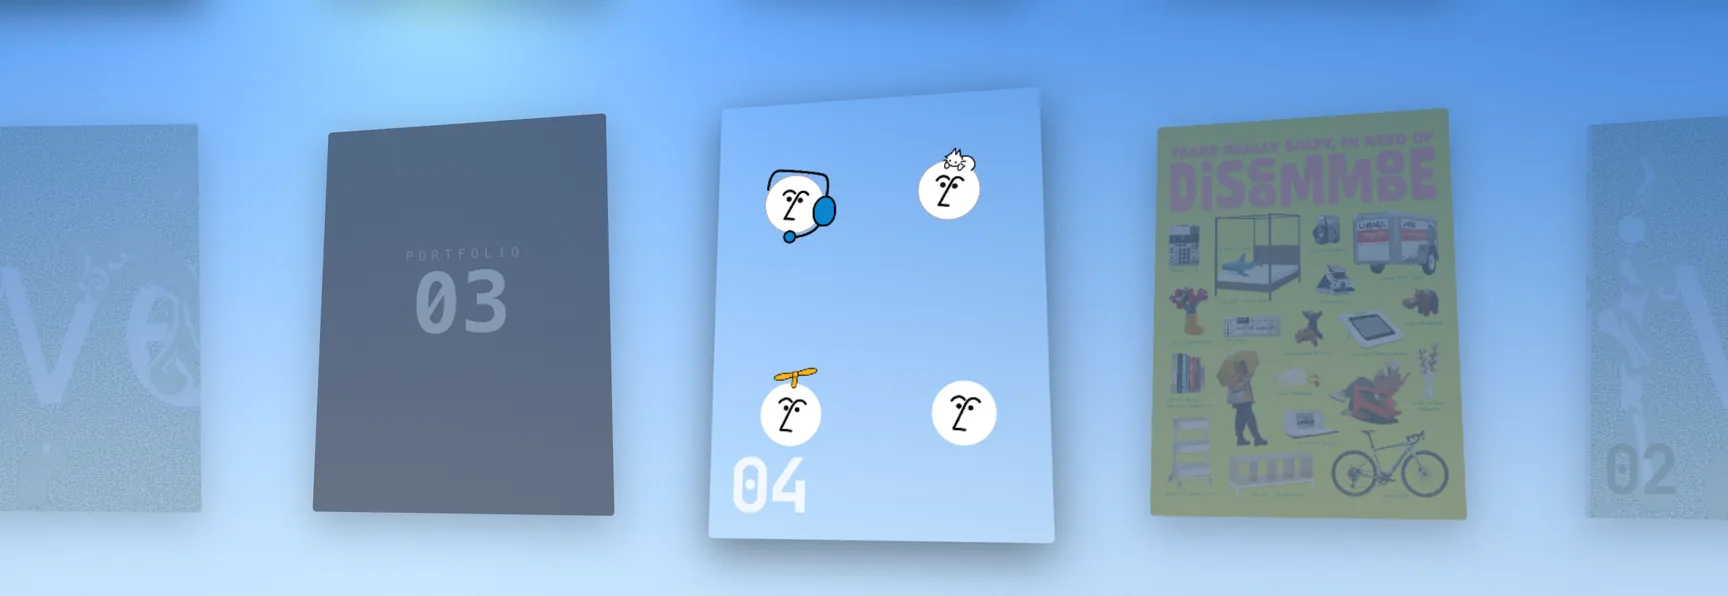
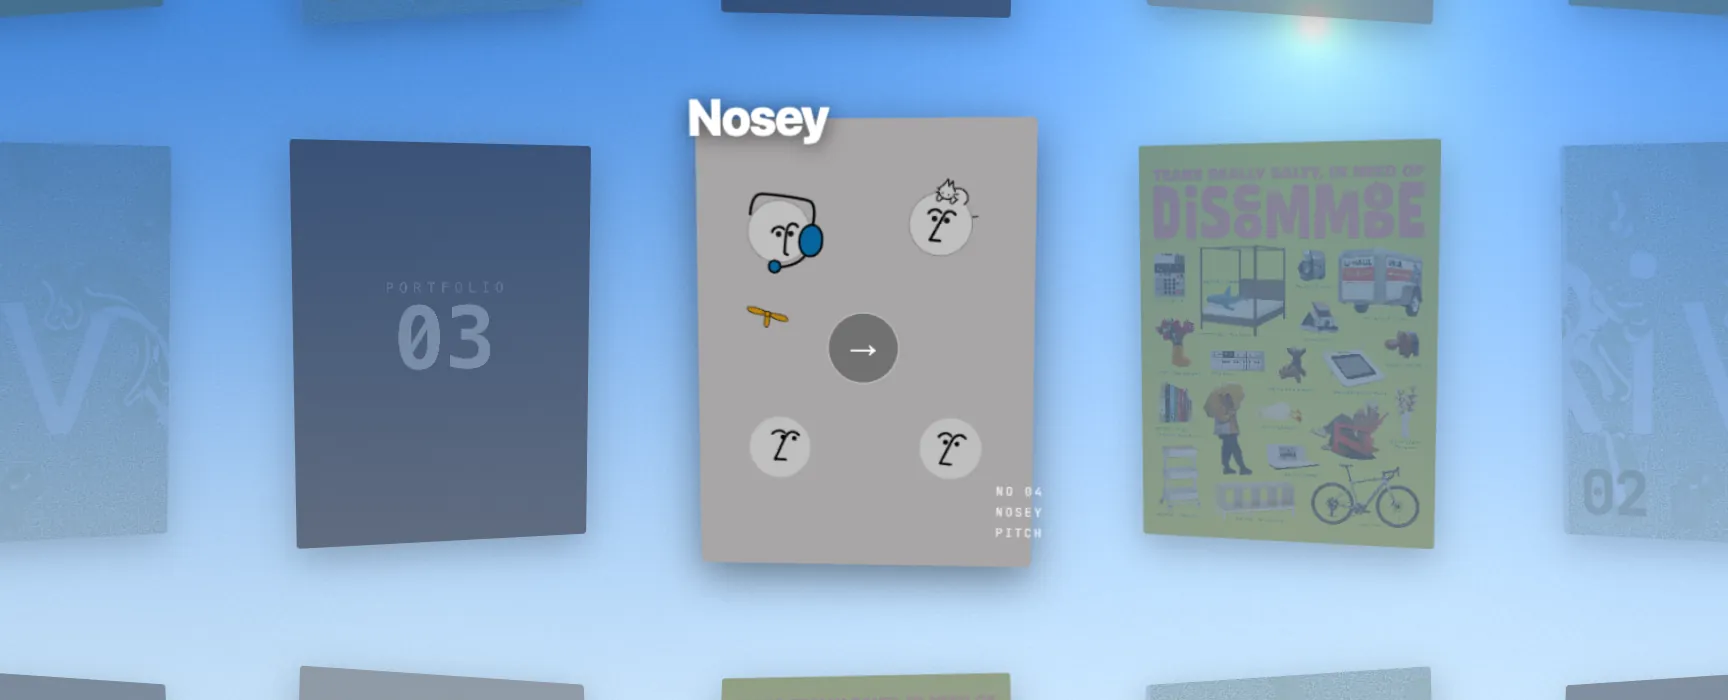
Card 04: the number and the name, nothing else on the cover
Card 04 (Nosey) is labelled as cards 01-03 are: the number bottom-left
and its name as the grid overlay's headline. Nothing else is set over
the cover.

- The description's rendering path is gone: the overlay's second line
  (`is-described`, `.card-overlay__desc`) and the detail hero's name +
  line (`.detail__panel-meta/-name/-desc`) with its scrim, and PR #31's
  soft text shadow on bare panels that stood in for the scrim.
- `description` is deleted from the manifest and `PosterItem`: the
  project view never read it. `name` stays, for the overlay's headline.
- verify:cover's hide rules drop the removed selector.
- The stills (`npm run covers -- --only nosey`) come out byte-identical:
  they are the cover alone. docs/covers/nosey-grid-row.webp and
  nosey-hero.webp are retaken.

verify:cover all passed (3 skipped: sky-through checks on the solid
cover); verify:detail all passed (card 04 as the hero 0.133-0.387%).
npm test (337), tsc -b, lint, build.

diff --git a/src/components/DetailView.css b/src/components/DetailView.css
@@ -122,17 +122,6 @@
   box-shadow: 0 24px 70px rgba(0, 0, 0, 0);
 }
 
-/* …and no scrim under its name either (card 04 has one; card 02 has none): over
-   a transparent cover the scrim is a dark band across the sky, the veil the
-   rules above exist to keep off. The type carries its own soft shadow instead,
-   enough to hold white on a NOON sky. */
-.detail__panel--bare .detail__panel-meta {
-  background: none;
-}
-.detail__panel--bare :is(.detail__panel-name, .detail__panel-desc, .detail__panel-num) {
-  text-shadow: 0 1px 14px rgba(10, 12, 16, 0.4);
-}
-
 /* A readable issue's centre panel is the doorway into the reader. */
 .detail__panel--readable {
   cursor: pointer;
@@ -156,56 +145,6 @@
   font-size: 44px;
   line-height: 1;
   color: rgba(255, 255, 255, 0.85);
-}
-
-/* The project's name and its one line, stacked above the number and sharing its
-   left edge. At the panel's foot rather than over the middle of it: the face is
-   a picture of the project, and a caption across the middle covers the thing it
-   names.
-
-   IT CARRIES ITS OWN SCRIM, and that is not decoration. A card face is whatever
-   the project looks like — Nosey's is a white page with a face on it — and
-   white type with a shadow on white paper is not type anybody can read. The
-   gradient runs to the panel's own bottom edge so the NUMBER sits on it too,
-   and it fades out above the name rather than ending on a line. `padding` is
-   what reserves the number's row inside it, so the two never overlap however
-   long the sentence wraps to. */
-.detail__panel-meta {
-  position: absolute;
-  left: 0;
-  right: 0;
-  bottom: 0;
-  display: flex;
-  flex-direction: column;
-  align-items: flex-start;
-  gap: 6px;
-  padding: 40px 14px 68px;
-  text-align: left;
-  background: linear-gradient(
-    to top,
-    rgba(10, 12, 16, 0.78) 0%,
-    rgba(10, 12, 16, 0.66) 42%,
-    rgba(10, 12, 16, 0) 100%
-  );
-  text-shadow: 0 1px 10px rgba(0, 0, 0, 0.55);
-}
-
-.detail__panel-name {
-  font-family: ui-sans-serif, system-ui, sans-serif;
-  font-size: 30px;
-  font-weight: 800;
-  line-height: 1;
-  letter-spacing: -0.03em;
-  color: #fff;
-}
-
-.detail__panel-desc {
-  max-width: 26em;
-  font-family: ui-sans-serif, system-ui, sans-serif;
-  font-size: 14px;
-  font-weight: 500;
-  line-height: 1.35;
-  color: rgba(255, 255, 255, 0.84);
 }
 
 /* Bar: bottom-centre, in the bottom band. Chips are 40 tall, radius 2, on a

diff --git a/src/components/CardOverlay.css b/src/components/CardOverlay.css
@@ -45,15 +45,9 @@
   );
 }
 
-/* Sits ABOVE the card's top edge, so it grows upward: a card with a one-line
-   description is taller here than a card with only a number, and anchoring the
-   block by its bottom keeps the name on the same line on every card.
-
-   The bare number keeps the -18px it has always had — it overlaps the card's
-   top corner, which is what made it read as a label ON the card. A description
-   wraps to two lines at this measure, and the second one would land across the
-   card's edge: `is-described` lifts the whole block clear so the sentence is
-   read against the ground and nothing else. */
+/* Sits ABOVE the card's top edge, anchored by its bottom, and overlaps the
+   card's top corner by 18px — which is what makes it read as a label ON the
+   card. The number or the name, the same place on every card. */
 .card-overlay__headline {
   bottom: 100%;
   margin-bottom: -18px;
@@ -62,14 +56,9 @@
   display: flex;
   flex-direction: column;
   align-items: flex-start;
-  gap: 6px;
   font-family: ui-sans-serif, system-ui, sans-serif;
   color: #fff;
   text-shadow: 0 2px 18px rgba(0, 0, 0, 0.6);
-}
-
-.card-overlay__headline.is-described {
-  margin-bottom: 10px;
 }
 
 .card-overlay__name {
@@ -77,18 +66,6 @@
   font-weight: 800;
   line-height: 1;
   letter-spacing: -0.03em;
-}
-
-/* One sentence, and the only prose on the grid. Held to a measure rather than
-   the card's width: a line that ran the whole face would read as a caption on
-   the art instead of as a label above it. */
-.card-overlay__desc {
-  max-width: 24em;
-  font-size: 13px;
-  font-weight: 500;
-  line-height: 1.35;
-  letter-spacing: 0;
-  color: rgba(255, 255, 255, 0.82);
 }
 
 .card-overlay__captions {

diff --git a/src/content.ts b/src/content.ts
@@ -39,7 +39,9 @@ export interface PosterItem {
    */
   title: string;
   /**
-   * What the thing is CALLED, once there is something real behind the card.
+   * What the thing is CALLED, once there is something real behind the card: the
+   * grid overlay's headline, and nowhere else. Nothing is set over the cover —
+   * the tile and the detail hero carry the number and only the number.
    *
    * Absent on a placeholder, and the overlay falls back to {@link title} — the
    * headline is then the number, which is what every card showed before the
@@ -48,12 +50,6 @@ export interface PosterItem {
    * front of it says nothing twice.
    */
   name?: string;
-  /**
-   * One line about it, under the headline. A sentence, not a tagline: it is the
-   * only prose anywhere on the grid, and the only thing that tells you what a
-   * card is before you open it.
-   */
-  description?: string;
   /** URL-hash slug for deep-linking the detail view (e.g. "item-02"). */
   slug: string;
   /** Magazine cards open the reader; portfolio cards open the project view. */
@@ -130,7 +126,6 @@ export const CONTENT: PosterItem[] = [
     id: 3,
     title: '04',
     name: 'Nosey',
-    description: 'A proof-of-concept for what Notion’s character system could become.',
     slug: 'item-04',
     kind: 'portfolio',
     project: '04',

diff --git a/src/components/DetailView.tsx b/src/components/DetailView.tsx
@@ -391,22 +391,6 @@ export function DetailView({ detail, transition, suspended = false, hero }: Deta
               {animsUrl && phase === 'active' && !suspended && (
                 <CoverAnimLayer manifest={animsUrl} listen={centerEl} />
               )}
-              {/* The name and its one line, on the CENTRE panel only: the sides
-                  are a card and a half away and out of focus, and a sentence on
-                  one of them is type nobody is meant to be reading. After the
-                  anim layer for the reason the number is — anything drawn
-                  earlier disappears behind the layer's opaque plate — and
-                  BEFORE the number, because it carries the scrim both of them
-                  are read against and a scrim over the number is a scrim over
-                  the number. */}
-              {isCenter && item.name && (
-                <span className="detail__panel-meta">
-                  <span className="detail__panel-name">{item.name}</span>
-                  {item.description && (
-                    <span className="detail__panel-desc">{item.description}</span>
-                  )}
-                </span>
-              )}
               <span className="detail__panel-num">{item.title}</span>
             </button>
           );

diff --git a/src/components/CardOverlay.tsx b/src/components/CardOverlay.tsx
@@ -39,17 +39,9 @@ export function CardOverlay({ item, onOpen }: CardOverlayProps) {
 
   return (
     <div className="card-overlay" style={{ animationDuration: `${cfg.overlayFadeMs}ms` }}>
-      {/* The NAME if the card has one, the number if it does not — and the one
-          line under it, on the same depth plane so the two read as one label
-          rather than as two things floating apart as the card turns. */}
-      <div
-        className={
-          item.description ? 'card-overlay__headline is-described' : 'card-overlay__headline'
-        }
-        style={depth(cfg.overlayDepthHeadline)}
-      >
+      {/* The NAME if the card has one, the number if it does not. */}
+      <div className="card-overlay__headline" style={depth(cfg.overlayDepthHeadline)}>
         <span className="card-overlay__name">{item.name ?? item.title}</span>
-        {item.description && <span className="card-overlay__desc">{item.description}</span>}
       </div>
 
       <div className="card-overlay__captions" style={depth(cfg.overlayDepthCaptions)}>

diff --git a/docs/covers.md b/docs/covers.md
@@ -28,11 +28,26 @@ so what is tuned there is what ships.
 | the same tile over NOON and over NIGHT | `docs/covers/noon-night.webp` |
 | the detail hero before / after the card chrome came off, clear NOON | `docs/covers/bare-hero.webp` |
 | the grid→detail morph at 0 / 0.5 / 1, before and after | `docs/covers/bare-morph.webp` |
-| card 04: the grid row, live, the sky through its ground (the file before 2026-09-28; it is opaque now) | `docs/covers/nosey-grid-row.webp` |
-| card 04: the detail hero at rest and mid-bounce | `docs/covers/nosey-hero.webp` |
+| card 04: the grid row, live, hovered: "Nosey" in the overlay's headline and nothing over the cover (2026-09-30) | `docs/covers/nosey-grid-row.webp` |
+| card 04: the detail hero at rest and mid-bounce, the number alone at its foot (2026-09-30) | `docs/covers/nosey-hero.webp` |
 | card 04: the same tile over NOON and over NIGHT (the file before 2026-09-28) | `docs/covers/nosey-noon-night.webp` |
 
 ## Handoff
+
+**Card 04's labels (2026-09-30).** Card 04 is labelled as cards 01–03 are:
+the number bottom-left and its name, "Nosey", as the grid overlay's headline.
+Nothing else is set over the cover. The description's rendering (the overlay's
+second line, the detail hero's name + line on a scrim, and PR #31's soft text
+shadow in place of that scrim) is gone, and so is `description` from the
+manifest: the project view never read it. The stills (`npm run covers`) come
+out byte-identical: they are the cover alone. At the last runs:
+`verify:cover` all passed (3 skipped, as above), `verify:detail` all passed
+(card 04 as the hero 0.133–0.387%). One thing seen and left alone: in the
+GRID, `.grid-card__index` is an unpositioned span, so the face above it (01's
+and 03's `<img>`, 02's and 04's cover canvas) paints over it. Card 04's tile
+number has been hidden under its opaque ground since 2026-09-28, as 01's and
+03's are under their images; only card 02's shows, through its translucent
+shader. `position: relative` on the index would put the number on every tile.
 
 **The detail view's arrival (2026-09-28).** [Not done](#not-done) 9. The
 paper's GL — context, programs, crease map, card 02's renderer in it, every
@@ -265,7 +280,7 @@ detail slot:
 | the DOM panel | `.detail__panel--bare`: no corners, a TRANSPARENT shadow. Not `none`: `none` on an off-screen panel changes how Chrome layers the strip and re-rasterises the other cards' images (`#item-04`, DOM faces: 8% of pixels, up to 111 levels). |
 | the paper | `uRadius` 0 (no rounded clip), no shadow quad. |
 | the paper's light | the crease screen-blend and trough shading are weighted by `coverPaperShade × alpha`: the full paper under opaque ink, none where the ground is transparent. The dent, squash, ripple, fold and crease refraction move the sheet and are unchanged. Card 04 has its own `coverPaperShade` (its JSON); card 02's is the site dial. |
-| the name's scrim | card 04 has a name and a line under it (card 02 has neither), and their scrim — a dark gradient up from the panel's foot — was a dark band across the sky over a transparent cover: `.detail__panel--bare` drops it, and the type carries a soft shadow (`0 1px 14px` at .4) instead. A design call: say if the scrim should come back. |
+| the labels | the number, bottom-left, as on every card, and nothing else. Card 04 had its name and a line under it here, on a scrim (and, from PR #31, a soft text shadow instead of it); since 2026-09-30 its name is only the grid overlay's headline, and the description is gone from the manifest. |
 | the morph | the card's chrome (6px corners, `0 24px 70px` at .55) fades to none over the travel, on its easing, and back on the way out. |
 
 Every other card is untouched: `verify:detail` as before, and before/after
@@ -757,8 +772,8 @@ Bounce, as card 02 switches its still to live ([Not done](#not-done) 1).
 `rswap`, the clock pinned and both instances fresh: the morph held on its last
 frame (Main) against the DOM hero it lands on (Main Bounce) — **0.51% (1×),
 0.53–0.54% (2×)**; the control, the hero a second of bounce later, 16%. With
-`start`, 0.51% (the name and number, which only the DOM hero has, are hidden:
-this compares the cover).
+`start`, 0.51% (the number, which only the DOM hero has, is hidden: this
+compares the cover).
 
 ### The still
 

diff --git a/docs/portfolio-view.md b/docs/portfolio-view.md
@@ -2051,12 +2051,14 @@ are worth keeping.
    becomes whatever is at 110s now. The frame is the thing a reader sees first
    on the grid, so it is worth more than a comment — a committed contact sheet,
    or the frame's own hash, would make a face that has quietly moved visible.
-12. **`name` and `description` exist on one card.** They are what the grid tile
-   and the detail panel say a card IS, and they are optional because the two
-   placeholders have nothing to say yet. Every card that becomes real wants
-   both, and the overlay's fallback to the card NUMBER is a fallback rather than
+12. **`name` exists on one card.** It is the grid overlay's headline — the
+   one place a card says what it IS; the tile and the detail hero carry only
+   the number — and it is optional because the placeholders have nothing to
+   say yet. The overlay's fallback to the card NUMBER is a fallback rather than
    a design — a grid where three cards name themselves and one says "03" is
-   worse than either of the two consistent states.
+   worse than either of the two consistent states. (`description`, card 04's
+   one line over its cover, was removed on 2026-09-30: nothing is set over a
+   cover, and the project view never read it.)
 
 ## Running the checks
 

diff --git a/docs/detail-paper.md b/docs/detail-paper.md
@@ -68,7 +68,7 @@ Bottom to top, while the canvas carries the cards:
    shadow falls under the hero exactly as the DOM's does.
 3. **The strip**, the DOM panels. Their faces (`.detail__media`, and the hover
    layer's `.cover-anim__plate`) are `visibility: hidden`. Everything else is
-   still DOM and still on top: the number, the name and its scrim, and **the
+   still DOM and still on top: the number, and **the
    CoverAnimLayer's sprites**. The panels keep every click, and the sprites keep
    resolving hover from the panel, exactly as before.
 4. **The chrome**, the back pill and the bar.
@@ -610,7 +610,7 @@ are identical (0 levels).
    bend with the paper. It was not done: animated WebP frames are not
    addressable from WebGL without decoding them ourselves (`ImageDecoder`), and
    that is a pipeline of its own.
-3. **The DOM labels do not fold.** The number, the name and its scrim stay DOM
+3. **The DOM labels do not fold.** The number stays DOM
    over a card that is crumpling in. For the ±1 slot this is at most `foldMs` of
    a label hanging over a half-revealed card (see `neighbour-unfold-mid.webp`).
 4. **A third WebGL context.** The sky and the portfolio sheet each have one. This
